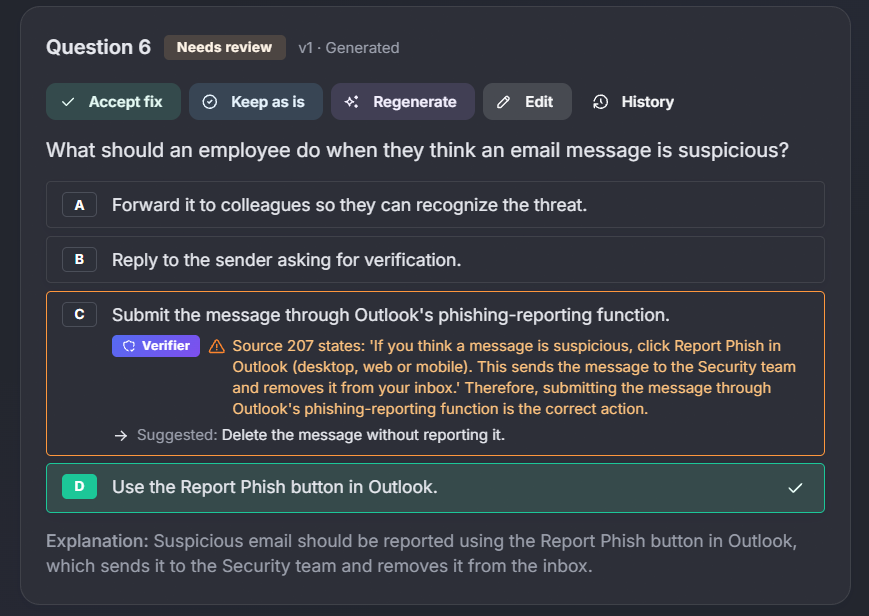
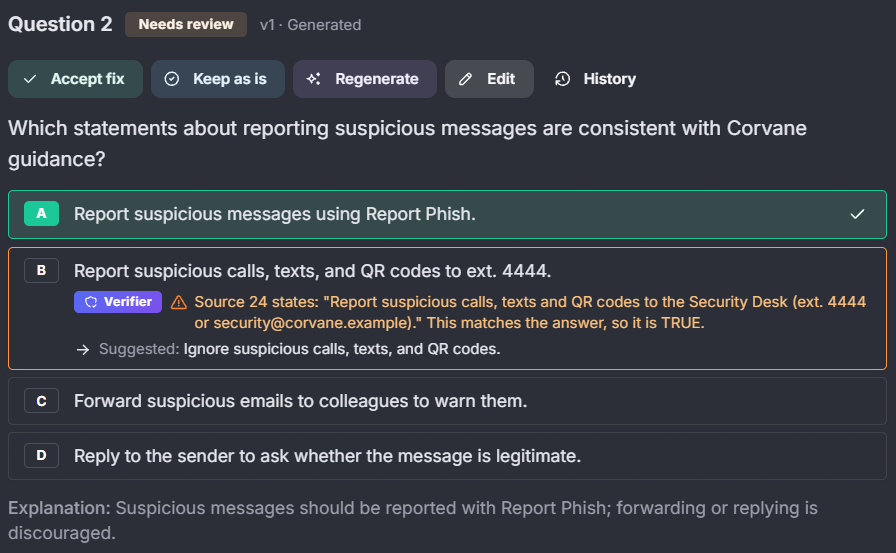
feat(landing,home): Show light or dark app screenshots to match the theme
- Add light-mode versions of the hero and flagged-question screenshots and show the one that
  matches the visitor's theme: CSS only-light/only-dark images on the static page,
  useComputedColorScheme in AboutContent
- Replace the flag example with Corvane question 2, where wrong answer B is just as consistent
  with the guidance as the correct answer, and update its caption and alt text
- Crop the flag screenshots to the inside of the question card and colour their panel like the
  card, so no page background or second border shows around them
- Show the hero screenshot and the side-by-side flag block in the app from 992px (md), as on
  the static page, so they also appear at higher browser zoom

diff --git a/landing/public/index.html b/landing/public/index.html
@@ -58,6 +58,10 @@
       --card-border: rgba(16, 24, 64, 0.08);
       --shadow: 0 1px 3px rgba(16, 24, 64, 0.06), 0 4px 12px rgba(16, 24, 64, 0.04);
       --accent: var(--brand-6);
+      --shot-bg: #ffffff;
+      --flag-bg: #fefefe;
+      --shot-bar: rgba(16, 24, 64, 0.05);
+      --shot-dot: rgba(16, 24, 64, 0.18);
       --light-brand-bg: rgba(76, 110, 245, 0.1);
       --light-violet-bg: rgba(121, 80, 242, 0.1);
       --light-needle-bg: rgba(130, 201, 30, 0.14);
@@ -79,6 +83,10 @@
         --card-border: rgba(255, 255, 255, 0.09);
         --shadow: 0 1px 3px rgba(0, 0, 0, 0.2);
         --accent: var(--brand-4);
+      --shot-bg: #23262e;
+      --flag-bg: #2d2f38;
+      --shot-bar: rgba(255, 255, 255, 0.06);
+      --shot-dot: rgba(255, 255, 255, 0.25);
         --light-brand-bg: rgba(116, 143, 252, 0.15);
         --light-violet-bg: rgba(151, 117, 250, 0.15);
         --light-needle-bg: rgba(169, 227, 75, 0.12);
@@ -98,6 +106,10 @@
       --card-border: rgba(255, 255, 255, 0.09);
       --shadow: 0 1px 3px rgba(0, 0, 0, 0.2);
       --accent: var(--brand-4);
+      --shot-bg: #23262e;
+      --flag-bg: #2d2f38;
+      --shot-bar: rgba(255, 255, 255, 0.06);
+      --shot-dot: rgba(255, 255, 255, 0.25);
       --light-brand-bg: rgba(116, 143, 252, 0.15);
       --light-violet-bg: rgba(151, 117, 250, 0.15);
       --light-needle-bg: rgba(169, 227, 75, 0.12);
@@ -187,13 +199,21 @@
     @media (min-width: 992px) {
       .hero-grid { grid-template-columns: minmax(0, 1fr) minmax(0, 1fr); }
       .hero-shot {
-        display: block; border-radius: 12px; overflow: hidden; background: #23262e;
+        display: block; border-radius: 12px; overflow: hidden; background: var(--shot-bg);
         border: 1px solid rgba(255, 255, 255, 0.18); box-shadow: 0 16px 40px rgba(0, 0, 0, 0.3);
       }
-      .hero-shot .bar { display: flex; gap: 6px; padding: 9px 12px; background: rgba(255, 255, 255, 0.06); }
-      .hero-shot .bar span { width: 9px; height: 9px; border-radius: 50%; background: rgba(255, 255, 255, 0.25); }
+      .hero-shot .bar { display: flex; gap: 6px; padding: 9px 12px; background: var(--shot-bar); }
+      .hero-shot .bar span { width: 9px; height: 9px; border-radius: 50%; background: var(--shot-dot); }
       .hero-shot img { display: block; width: 100%; height: auto; }
     }
+    /* Screenshots follow the theme: the light ones by default, the dark ones in dark mode. */
+    :root img.only-dark { display: none; }
+    @media (prefers-color-scheme: dark) {
+      :root:not([data-theme="light"]) img.only-light { display: none; }
+      :root:not([data-theme="light"]) img.only-dark { display: block; }
+    }
+    :root[data-theme="dark"] img.only-light { display: none; }
+    :root[data-theme="dark"] img.only-dark { display: block; }
     /* Photo across the top of a card */
     .card-photo { display: block; width: calc(100% + 40px); margin: -20px -20px 16px; height: 200px; object-fit: cover; }
     @media (min-width: 576px) { .card.lg .card-photo { width: calc(100% + 64px); margin: -32px -32px 20px; } }
@@ -250,12 +270,12 @@
     ul.checks .icon { margin-top: 3px; color: var(--accent); }
     /* Real screenshot of a flagged question, with its explanation beside it (below it on phones). */
     figure.shot { margin: 16px 0 0; padding: 0; display: grid; }
-    .shot-frame { background: #23262e; border-bottom: 1px solid var(--card-border); }
+    .shot-frame { background: var(--flag-bg); padding: 16px; border-bottom: 1px solid var(--card-border); }
     .shot-frame img { display: block; width: 100%; max-width: 468px; height: auto; margin: 0 auto; }
     .shot figcaption { padding: 20px; }
     .shot figcaption .theme-icon { margin-bottom: 12px; }
     @media (min-width: 992px) {
-      figure.shot { grid-template-columns: minmax(0, 468px) minmax(0, 1fr); align-items: center; }
+      figure.shot { grid-template-columns: minmax(0, 500px) minmax(0, 1fr); align-items: center; }
       .shot-frame { border-bottom: none; border-right: 1px solid var(--card-border); height: 100%; display: flex; align-items: center; }
       .shot figcaption { padding: 24px 28px; }
     }
@@ -362,7 +382,9 @@
         </div>
         <div class="hero-shot">
           <div class="bar" aria-hidden="true"><span></span><span></span><span></span></div>
-          <img src="img/app-test-screen.png" width="1001" height="893"
+          <img class="only-light" src="img/app-test-screen-light.png" width="950" height="892"
+            alt="The KnowGauge app showing a generated Information Security test: each question with its options, the correct answer marked and an explanation">
+          <img class="only-dark" src="img/app-test-screen.png" width="955" height="895"
             alt="The KnowGauge app showing a generated Information Security test: each question with its options, the correct answer marked and an explanation">
         </div>
         </div>
@@ -437,13 +459,15 @@
         </div>
         <figure class="card shot" style="padding: 0">
           <div class="shot-frame">
-            <img src="img/review-flagged.png" width="869" height="616" loading="lazy"
-              alt="A question in the KnowGauge review screen. Option C, marked as wrong, says the same as the correct answer D; the verifier flags it with a quote from the source and suggests a clearly wrong replacement. Buttons offer Accept fix, Keep as is, Regenerate and Edit.">
+            <img class="only-light" src="img/review-flagged-light.png" width="894" height="552" loading="lazy"
+              alt="A question in the KnowGauge review screen. Option B, marked as wrong, is also consistent with the guidance; the verifier flags it with a quote from the source and suggests a clearly wrong replacement. Buttons offer Accept fix, Keep as is, Regenerate and Edit.">
+            <img class="only-dark" src="img/review-flagged.png" width="896" height="553" loading="lazy"
+              alt="A question in the KnowGauge review screen. Option B, marked as wrong, is also consistent with the guidance; the verifier flags it with a quote from the source and suggests a clearly wrong replacement. Buttons offer Accept fix, Keep as is, Regenerate and Edit.">
           </div>
           <figcaption>
             <span class="theme-icon violet small"><svg class="icon"><use href="#i-flag"/></svg></span>
             <p class="card-title">What a flag looks like</p>
-            <p class="card-text">Here wrong answer C says the same thing as the correct answer D. The verifier quotes the source, explains why C is also correct and suggests a clearly wrong replacement. A flag never changes the answer key on its own; you decide with <strong>Accept fix</strong>, <strong>Keep as is</strong>, <strong>Regenerate</strong> or <strong>Edit</strong>.</p>
+            <p class="card-text">Here wrong answer B is just as consistent with the guidance as the correct answer A. The verifier quotes the source, explains why B is also correct and suggests a clearly wrong replacement. A flag never changes the answer key on its own; you decide with <strong>Accept fix</strong>, <strong>Keep as is</strong>, <strong>Regenerate</strong> or <strong>Edit</strong>.</p>
           </figcaption>
         </figure>
       </section>

diff --git a/src/features/about/AboutPage.tsx b/src/features/about/AboutPage.tsx
@@ -12,6 +12,7 @@ import {
   ThemeIcon,
   Timeline,
   Title,
+  useComputedColorScheme,
 } from '@mantine/core';
 import {
   IconArrowRight,
@@ -253,6 +254,16 @@ export function AboutPage() {
  * the same. `heroAction` is placed under the pipeline in the hero (the home page's sign-up button).
  */
 export function AboutContent({ heroAction }: { heroAction?: ReactNode }) {
+  // The screenshots and their frames follow the light/dark theme.
+  const dark = useComputedColorScheme('light') === 'dark';
+  const shot = {
+    hero: dark ? '/img/app-test-screen.png' : '/img/app-test-screen-light.png',
+    flagged: dark ? '/img/review-flagged.png' : '/img/review-flagged-light.png',
+    bg: dark ? '#23262e' : '#ffffff',
+    flagBg: dark ? '#2d2f38' : '#fefefe',
+    bar: dark ? 'rgba(255, 255, 255, 0.06)' : 'rgba(16, 24, 64, 0.05)',
+    dot: dark ? 'rgba(255, 255, 255, 0.25)' : 'rgba(16, 24, 64, 0.18)',
+  };
   return (
     <Stack gap="xl">
       <Paper p={{ base: 'lg', sm: 'xl' }} className="kg-hero">
@@ -286,24 +297,24 @@ export function AboutContent({ heroAction }: { heroAction?: ReactNode }) {
           </div>
           {/* The real app in a window-like frame. Wide screens only; too small to read on phones. */}
           <Box
-            visibleFrom="lg"
+            visibleFrom="md"
             style={{
               flex: 1,
               minWidth: 0,
               borderRadius: 12,
               overflow: 'hidden',
-              background: '#23262e',
+              background: shot.bg,
               border: '1px solid rgba(255, 255, 255, 0.18)',
               boxShadow: '0 16px 40px rgba(0, 0, 0, 0.3)',
             }}
           >
-            <Group gap={6} px={12} py={9} bg="rgba(255, 255, 255, 0.06)" aria-hidden>
+            <Group gap={6} px={12} py={9} bg={shot.bar} aria-hidden>
               {[0, 1, 2].map((dot) => (
-                <Box key={dot} w={9} h={9} bg="rgba(255, 255, 255, 0.25)" style={{ borderRadius: '50%' }} />
+                <Box key={dot} w={9} h={9} bg={shot.dot} style={{ borderRadius: '50%' }} />
               ))}
             </Group>
             <Image
-              src="/img/app-test-screen.png"
+              src={shot.hero}
               alt="The KnowGauge app showing a generated Information Security test: each question with its options, the correct answer marked and an explanation"
               w="100%"
             />
@@ -392,25 +403,26 @@ export function AboutContent({ heroAction }: { heroAction?: ReactNode }) {
         <Reveal>
           {/* A real flagged question from the review screen, with its explanation beside it (below on phones). */}
           <Paper mt="md" style={{ overflow: 'hidden' }}>
-            <Flex direction={{ base: 'column', lg: 'row' }} align={{ base: 'stretch', lg: 'center' }}>
+            <Flex direction={{ base: 'column', md: 'row' }} align={{ base: 'stretch', md: 'center' }}>
               <Flex
                 align="center"
                 justify="center"
-                w={{ base: '100%', lg: 468 }}
+                w={{ base: '100%', md: 500 }}
                 style={{
                   flexShrink: 0,
                   maxWidth: '100%',
                   alignSelf: 'stretch',
-                  background: '#23262e',
+                  background: shot.flagBg,
+                  padding: 16,
                   borderRight: '1px solid var(--mantine-color-default-border)',
                 }}
               >
                 <Image
-                  src="/img/review-flagged.png"
+                  src={shot.flagged}
                   w="100%"
                   maw={468}
                   loading="lazy"
-                  alt="A question in the KnowGauge review screen. Option C, marked as wrong, says the same as the correct answer D; the verifier flags it with a quote from the source and suggests a clearly wrong replacement. Buttons offer Accept fix, Keep as is, Regenerate and Edit."
+                  alt="A question in the KnowGauge review screen. Option B, marked as wrong, is also consistent with the guidance; the verifier flags it with a quote from the source and suggests a clearly wrong replacement. Buttons offer Accept fix, Keep as is, Regenerate and Edit."
                 />
               </Flex>
               <Box p="lg" style={{ flex: 1, minWidth: 0 }}>
@@ -421,10 +433,10 @@ export function AboutContent({ heroAction }: { heroAction?: ReactNode }) {
                   What a flag looks like
                 </Text>
                 <Text size="sm" c="dimmed" lh={1.6}>
-                  Here wrong answer C says the same thing as the correct answer D. The verifier quotes the
-                  source, explains why C is also correct and suggests a clearly wrong replacement. A flag
-                  never changes the answer key on its own; you decide with <b>Accept fix</b>,{' '}
-                  <b>Keep as is</b>, <b>Regenerate</b> or <b>Edit</b>.
+                  Here wrong answer B is just as consistent with the guidance as the correct answer A. The
+                  verifier quotes the source, explains why B is also correct and suggests a clearly wrong
+                  replacement. A flag never changes the answer key on its own; you decide with{' '}
+                  <b>Accept fix</b>, <b>Keep as is</b>, <b>Regenerate</b> or <b>Edit</b>.
                 </Text>
               </Box>
             </Flex>
